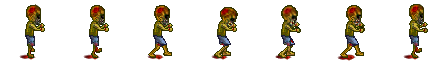
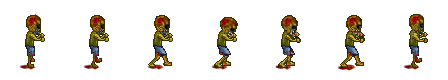
Анимации врагов

diff --git a/main.py b/main.py
@@ -292,7 +292,7 @@ class Opponents(pygame.sprite.Sprite):
         self.mask = pygame.mask.from_surface(self.image)
         self.hit_point = 2.5
         self.eat_sing = pygame.mixer.Sound('Sing\eat.wav')
-        self.eat_sing.set_volume(0.4)
+        self.eat_sing.set_volume(0.4)ццццц
         self.died_sing = pygame.mixer.Sound('Sing\/died.wav')
 
         self.dict_go_hero = {
